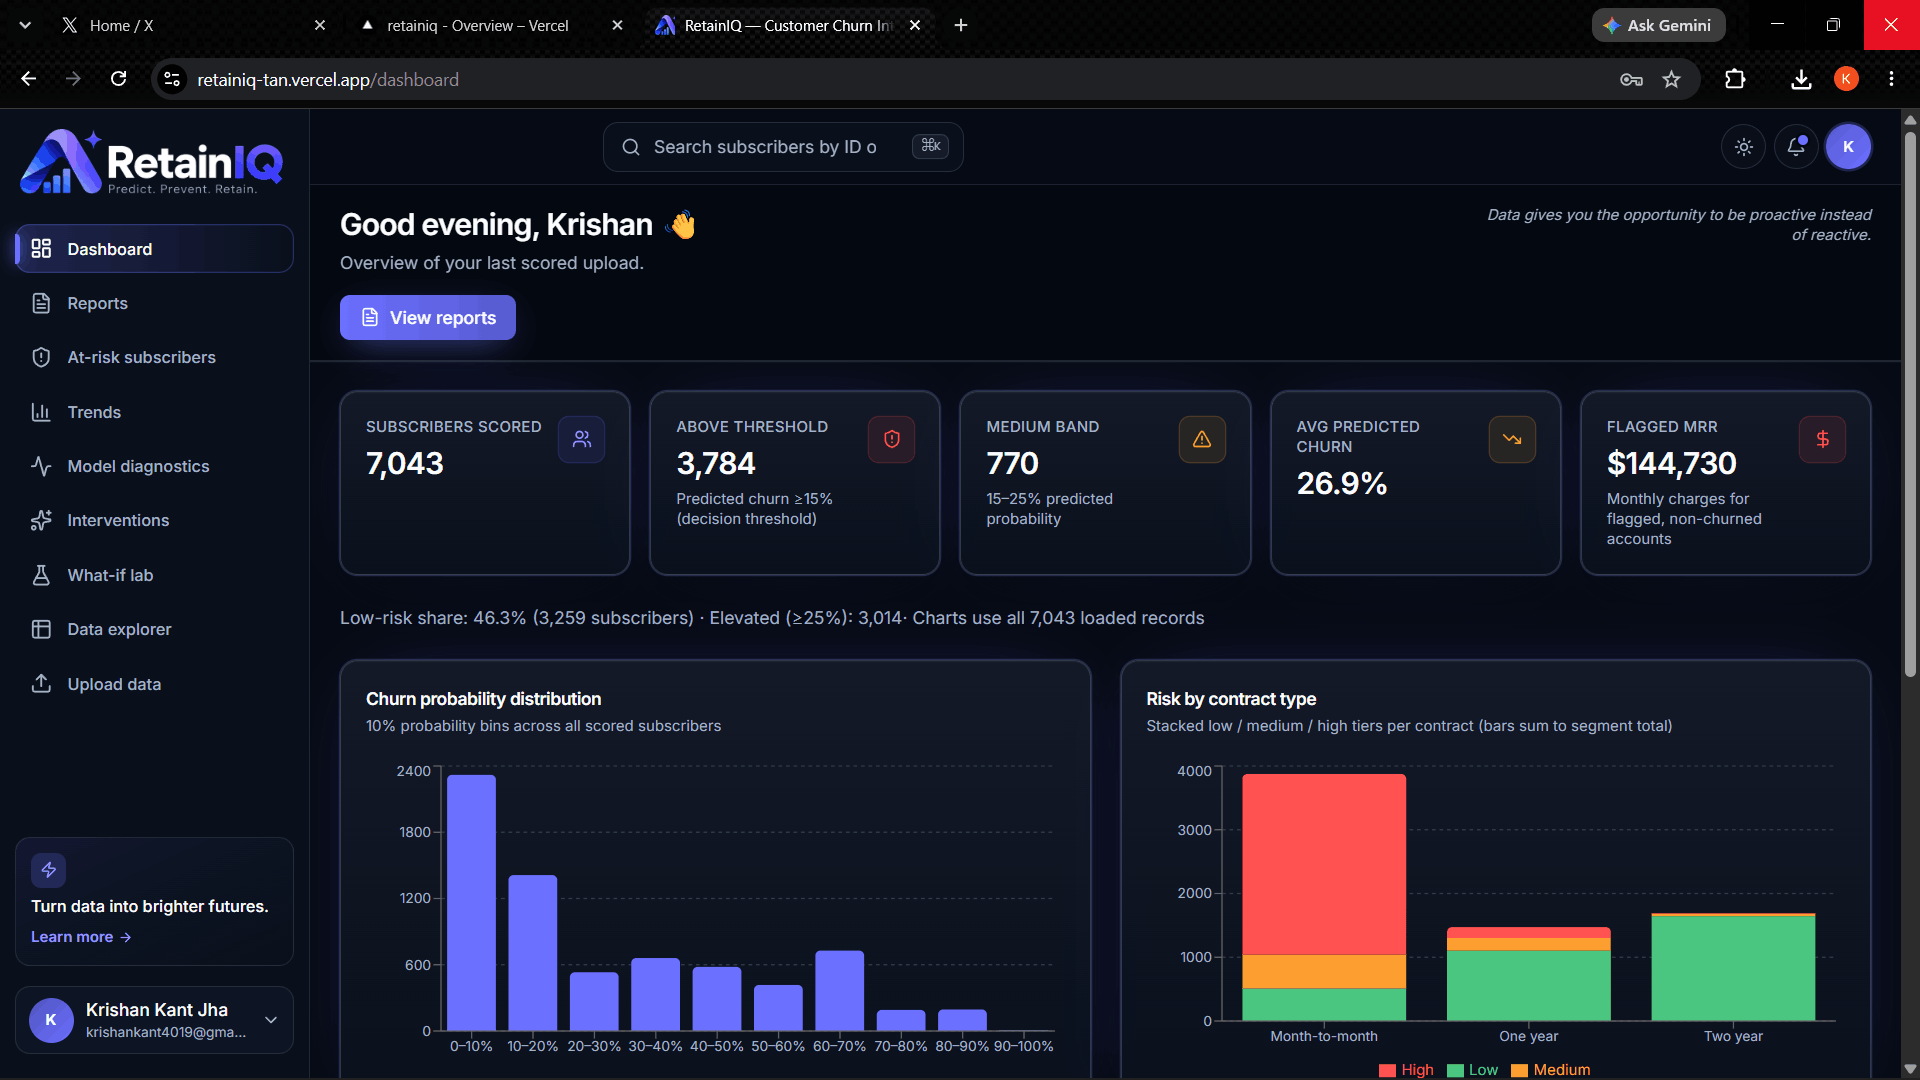
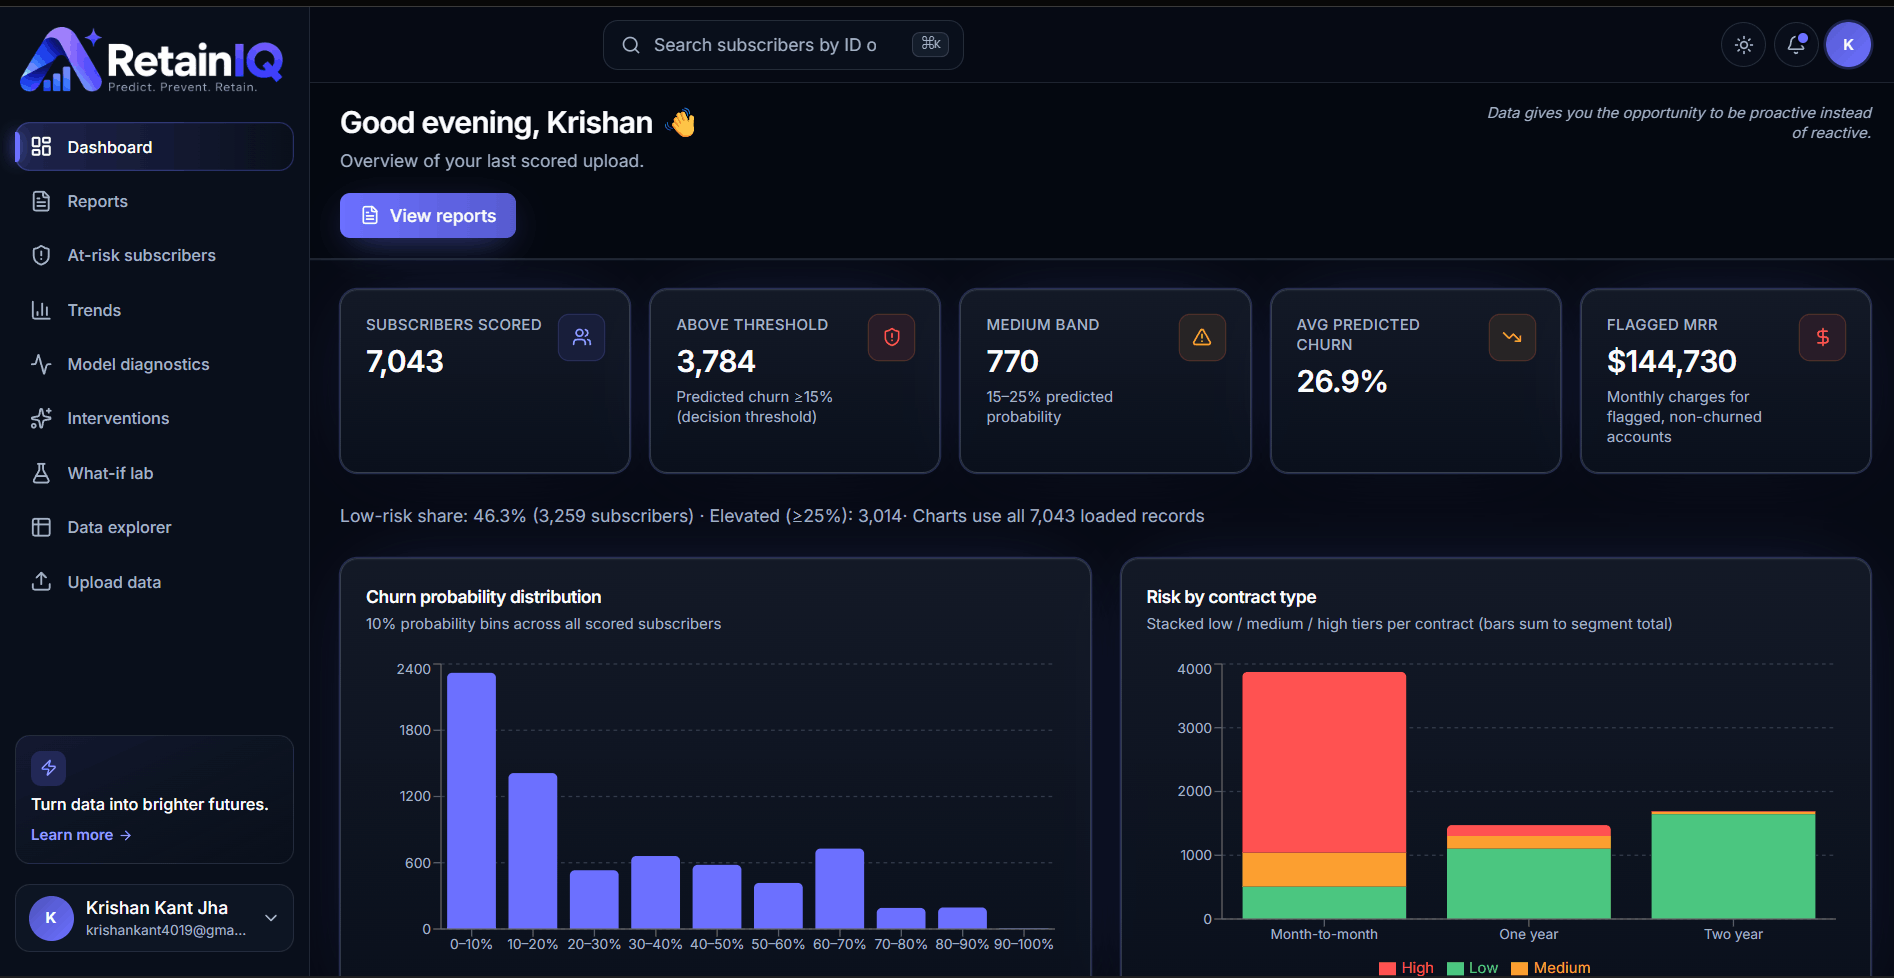
Update login and dashboard screenshots in README

diff --git a/README.md b/README.md
@@ -93,7 +93,7 @@ Screenshots from the [live app](https://retainiq-tan.vercel.app) with the sample
 
 ### Sign in
 
-Landing page and authentication.
+Marketing overview, feature highlights, and sign-in form.
 
 ![RetainIQ login page](docs/screenshots/login.png)
 
@@ -105,7 +105,7 @@ Download the sample CSV, set the decision threshold, and upload a cohort.
 
 ### Dashboard
 
-Overview KPIs, churn distribution, and risk by contract type.
+Sidebar navigation, cohort KPIs, churn distribution, and risk by contract type.
 
 ![Dashboard overview](docs/screenshots/dashboard.png)
 
